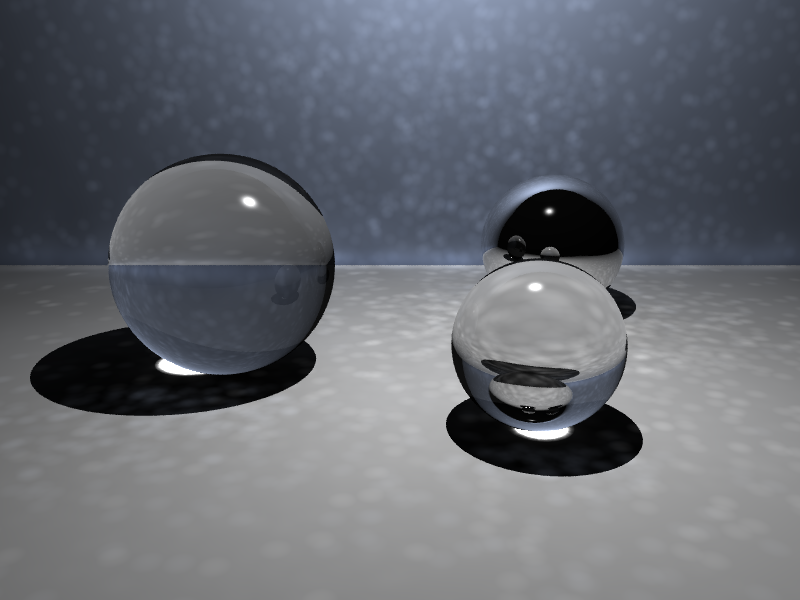
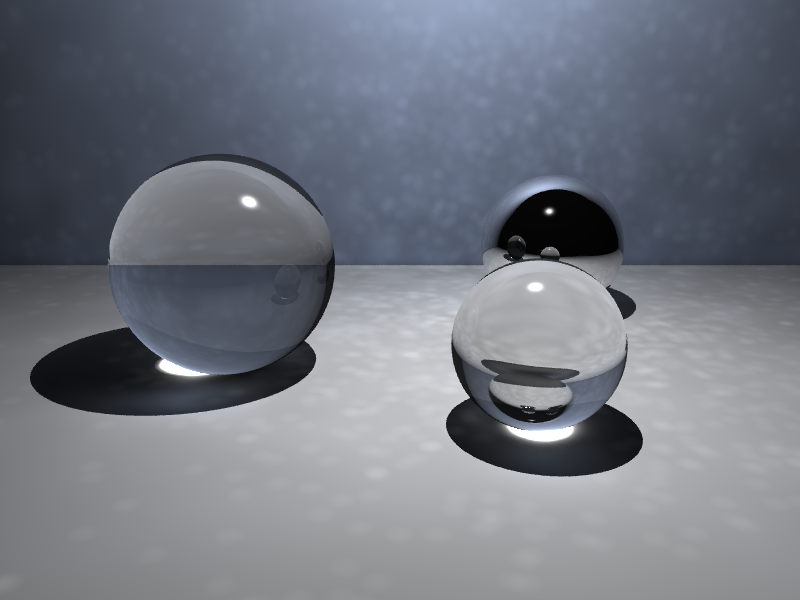
Use physical photon power and Russian roulette
Each light emits light_power times its diffuse color. Photons store their
full power at every diffuse hit and follow one path chosen by Russian
roulette on the material's reflectances, with cosine-weighted diffuse
bounces. Estimates correct for the cone filter, so ESTIMATE_SCALE is gone
and shadow-ray light uses the same power / (4π d²). Tests check direct and
multi-bounce irradiance inside a sphere against closed forms. Scene light
powers are retuned.

diff --git a/crates/raytrace/src/photon.rs b/crates/raytrace/src/photon.rs
@@ -223,11 +223,9 @@ impl Buckets {
 /// nearby perpendicular surfaces don't bleed in.
 const SEARCH_COMPRESSION: f64 = 0.22;
 
-/// Matches light computed with shadow rays to the photon estimates' scale,
-/// which is half the true density twice over: photons are stored at only half
-/// of their surface hits (the other half bounce), and the cone filter's
-/// weights average 1/2 over the disc.
-pub const ESTIMATE_SCALE: f64 = 0.25;
+/// The cone filter's weights (1 - d²/r²) average 1/2 over the disc, so
+/// estimates are scaled back up by this.
+const CONE_NORMALIZATION: f64 = 2.0;
 
 /// Irradiance is precomputed at every this many photons for final gathering.
 const PRECOMPUTE_STRIDE: usize = 4;
@@ -249,21 +247,20 @@ pub struct PhotonMaps {
 }
 
 impl PhotonMaps {
+    /// Emits `photons_per_light` photons uniformly from each light. A light
+    /// emits `light_power` times its diffuse color in total.
     pub fn build(world: &World, settings: &PhotonSettings, seed: u64) -> Self {
-        let per_light = settings.photons_per_light as usize;
+        let per_light = settings.photons_per_light.max(1) as usize;
         let total = per_light * world.lights.len();
-        let power = DVec3::splat(settings.light_power / total.max(1) as f64);
 
         let buckets = (0..total)
             .into_par_iter()
             .fold(Buckets::default, |mut out, i| {
                 let light = &world.lights[i / per_light];
+                let power = light.diffuse * (settings.light_power / per_light as f64);
                 let mut rng = Rng::new(seed.wrapping_mul(0x1000_0000_01B3) ^ i as u64);
-                // The original biased photons downward, but the flip was a
-                // no-op (`dir.sMult(-1)` discarded its result), so emission was
-                // effectively uniform; keep it uniform.
                 let ray = Ray::new(light.position, rng.unit_vector());
-                trace_photon(world, settings, &ray, 0, false, power, Kind::Direct, &mut rng, &mut out);
+                trace_photon(world, settings, ray, power, &mut rng, &mut out);
                 out
             })
             .reduce(Buckets::default, Buckets::merge);
@@ -360,63 +357,149 @@ fn estimate(map: &KdTree, point: DVec3, normal: DVec3, side: Option<DVec3>, radi
             r2
         })
     };
-    sum / (std::f64::consts::PI * r2)
+    sum * (CONE_NORMALIZATION / (std::f64::consts::PI * r2))
 }
 
-#[allow(clippy::too_many_arguments)]
+/// Follows one photon, storing it at every surface with a diffuse part, and
+/// choosing what happens next by Russian roulette: diffuse bounce, mirror
+/// reflection, refraction or absorption, in proportion to the material's
+/// reflectances. A diffuse bounce rescales the power by reflectance over
+/// probability, so the expected power is right while color can shift.
+///
+/// Photons are sorted by path: straight from a light (direct), through glass
+/// or mirrors only (caustic), or after any diffuse bounce (indirect).
 fn trace_photon(
     world: &World,
     settings: &PhotonSettings,
-    ray: &Ray,
-    depth: u32,
-    internal: bool,
-    power: DVec3,
-    kind: Kind,
+    mut ray: Ray,
+    mut power: DVec3,
     rng: &mut Rng,
     out: &mut Buckets,
 ) {
-    let Some(hit) = world.intersect(ray, f64::INFINITY) else { return };
-    let m = &world.materials[hit.material];
-    let pr = m.reflectivity;
-    let pt = m.transmissivity;
-    let pd = 1.0 - pr - pt;
-    let r = rng.next_f64();
+    let mut kind = Kind::Direct;
+    let mut internal = false;
+    for _ in 0..=settings.max_depth {
+        let Some(hit) = world.intersect(&ray, f64::INFINITY) else { return };
+        let m = &world.materials[hit.material];
+        if internal {
+            // Inside glass: carry on to the far surface (or reflect inside).
+            let (refracted, now_internal) = refract(&ray, &hit, true, m.effective_ior());
+            (ray, internal) = (refracted, now_internal);
+            continue;
+        }
 
-    if depth < settings.max_depth {
-        if r < 0.5 {
-            // Diffuse bounce into the hemisphere around the normal. (The
-            // original's hemisphere flip was another discarded `sMult`.)
-            let mut dir = rng.unit_vector();
-            if dir.dot(hit.normal) < 0.0 {
-                dir = -dir;
-            }
-            let bounced = Ray::new(hit.point, dir);
-            trace_photon(world, settings, &bounced, depth + 1, false, power * m.kd * pd, Kind::Indirect, rng, out);
-        }
-        if pt > 0.0 {
-            let (refracted, now_internal) = refract(ray, &hit, internal, m.effective_ior());
-            trace_photon(world, settings, &refracted, depth + 1, now_internal, power * pt, Kind::Caustic, rng, out);
-        }
-        if pr > 0.0 && !internal {
-            let reflected = reflect(ray, &hit);
-            trace_photon(world, settings, &reflected, depth + 1, false, power * pr, Kind::Caustic, rng, out);
-        }
-    }
-
-    if r >= 0.5 {
         let facing = if hit.normal.dot(ray.dir) > 0.0 { -hit.normal } else { hit.normal };
-        let photon = Photon { pos: hit.point, power: power * pd, normal: facing.as_vec3(), axis: 0 };
-        match kind {
-            Kind::Direct => out.direct.push(photon),
-            Kind::Indirect => out.indirect.push(photon),
-            Kind::Caustic => out.caustic.push(photon),
+        let diffuse_part = (1.0 - m.reflectivity - m.transmissivity).max(0.0);
+        if diffuse_part > 0.0 {
+            let photon = Photon { pos: hit.point, power, normal: facing.as_vec3(), axis: 0 };
+            match kind {
+                Kind::Direct => out.direct.push(photon),
+                Kind::Indirect => out.indirect.push(photon),
+                Kind::Caustic => out.caustic.push(photon),
+            }
+        }
+
+        let diffuse = m.kd * diffuse_part;
+        let p_diffuse = diffuse.element_sum() / 3.0;
+        let xi = rng.next_f64();
+        if xi < p_diffuse {
+            power *= diffuse / p_diffuse;
+            ray = Ray::new(hit.point, cosine_direction(facing, rng));
+            kind = Kind::Indirect;
+        } else if xi < p_diffuse + m.reflectivity {
+            ray = reflect(&ray, &hit);
+            kind = after_specular(kind);
+        } else if xi < p_diffuse + m.reflectivity + m.transmissivity {
+            (ray, internal) = refract(&ray, &hit, false, m.effective_ior());
+            kind = after_specular(kind);
+        } else {
+            return;
         }
     }
+}
+
+/// Light that has bounced diffusely stays indirect after glass or mirrors;
+/// only light → specular → diffuse paths are caustics.
+fn after_specular(kind: Kind) -> Kind {
+    if kind == Kind::Indirect { Kind::Indirect } else { Kind::Caustic }
+}
+
+/// A direction in the hemisphere around `n`, with density proportional to
+/// the cosine, as light leaves a Lambertian surface.
+fn cosine_direction(n: DVec3, rng: &mut Rng) -> DVec3 {
+    let (t, b) = n.any_orthonormal_pair();
+    let u = rng.next_f64();
+    let r = u.sqrt();
+    let (sin, cos) = (std::f64::consts::TAU * rng.next_f64()).sin_cos();
+    t * (r * cos) + b * (r * sin) + n * (1.0 - u).sqrt()
 }
 
 #[cfg(test)]
 mod tests {
     use super::*;
+    use crate::geometry::{PointLight, Sphere};
+    use crate::material::Material;
+
+    /// A point light at the center of a sphere of radius `R` whose walls have
+    /// diffuse reflectance `kd`.
+    const R: f64 = 5.0;
+    const LIGHT_POWER: f64 = 100.0;
+
+    fn light_in_sphere(kd: f64) -> (World, PhotonSettings) {
+        let mut world = World::empty();
+        world.materials.push(Material {
+            kd: DVec3::splat(kd),
+            reflectivity: 0.0,
+            transmissivity: 0.0,
+            ..Material::default()
+        });
+        world.spheres.push(Sphere { center: DVec3::ZERO, radius: R, material: 0 });
+        world.lights.push(PointLight { position: DVec3::ZERO, diffuse: DVec3::ONE, specular: DVec3::ONE });
+        let settings = PhotonSettings {
+            enabled: true,
+            photons_per_light: 200_000,
+            max_depth: 60,
+            light_power: LIGHT_POWER,
+            ..PhotonSettings::default()
+        };
+        (world, settings)
+    }
+
+    /// Average estimate over points spread around the sphere.
+    fn mean_estimate(map: &KdTree) -> f64 {
+        let mut rng = Rng::new(3);
+        let n = 40;
+        let total: f64 = (0..n)
+            .map(|_| {
+                let normal = rng.unit_vector();
+                estimate(map, normal * R, normal, None, 1.5, 400).x
+            })
+            .sum();
+        total / n as f64
+    }
+
+    #[test]
+    fn direct_estimate_matches_inverse_square_irradiance() {
+        let (world, settings) = light_in_sphere(0.0);
+        let maps = PhotonMaps::build(&world, &settings, 1);
+        let expected = LIGHT_POWER / (4.0 * std::f64::consts::PI * R * R);
+        let got = mean_estimate(&maps.direct);
+        assert!((got / expected - 1.0).abs() < 0.03, "direct {got} vs {expected}");
+        assert!(maps.indirect.is_empty(), "black walls absorb everything");
+    }
+
+    /// Inside a closed diffuse sphere every bounce spreads evenly, so the
+    /// indirect irradiance is E0 (ρ + ρ² + …) = E0 ρ / (1 - ρ).
+    #[test]
+    fn roulette_conserves_energy_over_bounces() {
+        let rho = 0.5;
+        let (world, settings) = light_in_sphere(rho);
+        let maps = PhotonMaps::build(&world, &settings, 1);
+        let e0 = LIGHT_POWER / (4.0 * std::f64::consts::PI * R * R);
+        let expected = e0 * rho / (1.0 - rho);
+        let got = mean_estimate(&maps.indirect);
+        assert!((got / expected - 1.0).abs() < 0.04, "indirect {got} vs {expected}");
+    }
 
     #[test]
     fn kd_radius_search_matches_brute_force() {

diff --git a/crates/raytrace/src/render.rs b/crates/raytrace/src/render.rs
@@ -10,7 +10,7 @@ use rayon::prelude::*;
 use crate::geometry::{Hit, PointLight, Ray, World};
 use crate::irradiance_cache::{IrradianceCache, Record};
 use crate::optics::{reflect, refract};
-use crate::photon::{ESTIMATE_SCALE, KdTree, PhotonMaps};
+use crate::photon::{KdTree, PhotonMaps};
 use crate::rng::Rng;
 use crate::scene::{DirectLighting, PhotonSettings, RenderSettings, Scene, Window};
 
@@ -398,16 +398,16 @@ impl<'a> Renderer<'a> {
         (self.world.materials[hit.material].ka + diffuse, specular)
     }
 
-    /// Phong lighting from each light's share of the photon power, falling off
-    /// with distance, on the same scale as the photon map estimates. No
-    /// ambient term: the indirect map provides that light.
+    /// Phong lighting from each light's emitted power, falling off with the
+    /// square of the distance: the irradiance its photons would estimate. The
+    /// light's specular color tints highlights the same way. No ambient term:
+    /// the indirect map or final gather provides that light.
     fn direct_from_photon_power(&self, ray: &Ray, hit: &Hit) -> (DVec3, DVec3) {
         let p = self.photon_settings;
-        let per_light = p.light_power / self.world.lights.len().max(1) as f64;
-        let scale = per_light / (4.0 * std::f64::consts::PI) * ESTIMATE_SCALE * p.exposure.direct;
-        self.direct(ray, hit, |_, dist| {
-            let intensity = DVec3::splat(scale / (dist * dist));
-            (intensity, intensity)
+        let scale = p.light_power / (4.0 * std::f64::consts::PI) * p.exposure.direct;
+        self.direct(ray, hit, |light, dist| {
+            let falloff = scale / (dist * dist);
+            (light.diffuse * falloff, light.specular * falloff)
         })
     }
 

diff --git a/crates/raytrace/src/scene.rs b/crates/raytrace/src/scene.rs
@@ -226,7 +226,8 @@ pub struct PhotonSettings {
     pub enabled: bool,
     pub photons_per_light: u32,
     pub max_depth: u32,
-    /// Total power shared by all emitted photons.
+    /// Power each light emits, times its diffuse color. Direct light falls
+    /// off as power / (4π d²).
     pub light_power: f64,
     pub direct_lighting: DirectLighting,
     /// Maximum search radius of each map's estimate.
@@ -252,7 +253,7 @@ impl Default for PhotonSettings {
             enabled: false,
             photons_per_light: 100_000,
             max_depth: 5,
-            light_power: 3300.0,
+            light_power: 1000.0,
             direct_lighting: DirectLighting::default(),
             radius: PhotonTriple { direct: 1.0, indirect: 1.0, caustic: 1.0 },
             exposure: PhotonTriple { direct: 1.0, indirect: 1.0, caustic: 1.0 },

diff --git a/README.md b/README.md
@@ -12,8 +12,9 @@ A ray tracer with photon mapping, written in Rust. It is a port of a
 - Photon mapping after Jensen: direct light from shadow rays, caustics from
   the caustic map, and indirect light from the indirect map or by final
   gathering over precomputed irradiance with an irradiance cache (kd-tree,
-  k-nearest density estimates over a flattened disc). The 2011 direct-map
-  shading is still available.
+  k-nearest density estimates over a flattened disc). Photons carry physical
+  power and follow one path each by Russian roulette on the material's
+  reflectances. The 2011 direct-map shading is still available.
 - Triangle meshes from Wavefront OBJ/MTL, accelerated by a binned-SAH BVH, plus
   analytic spheres
 - N-rooks anti-aliasing; all cores via rayon; deterministic output
@@ -126,7 +127,7 @@ refractions = true
 [photon]
 enabled = false
 photons_per_light = 100000
-light_power = 3300.0
+light_power = 1000.0       # per light, times its diffuse color
 direct_lighting = "rays"   # or "map": read the direct photon map, as in 2011
 radius = { direct = 1.0, indirect = 1.0, caustic = 1.0 }   # max search radius
 gather = { direct = 200, indirect = 200, caustic = 80 }    # nearest photons; 0 = all in radius
@@ -135,6 +136,15 @@ final_gather = 0           # rays per final gather; 0 = read the indirect map
 irradiance_cache = true    # interpolate gathers made at sparse points
 cache_accuracy = 0.25      # smaller = cache points closer together
 ```
+
+Each light emits `light_power` times its diffuse color, split over its
+photons. Direct light from shadow rays falls off as power / (4π d²), and the
+photon estimates measure the same irradiance, so the two add up consistently.
+At each surface a photon is stored if the surface has a diffuse part, then
+Russian roulette picks a diffuse bounce, mirror reflection, refraction or
+absorption in proportion to the material's reflectances. Closed rooms with
+light walls get much more bounce light than open scenes, as they should.
+`exposure` scales each map's contribution on top.
 
 Each map's estimate uses the `gather` nearest photons, out to `radius` at
 most, so it sharpens where photons are dense (caustics) and widens where they
@@ -191,9 +201,12 @@ legacy/scenes         original XML scenes
 
 ## Differences from the 2011 version
 
-Photon-mapped scenes now default to shadow rays for direct light and k-nearest
-gathering. `direct_lighting = "map"` with every `gather` count at 0 reproduces
-the original shading. The port also fixes these bugs:
+Photon mapping now follows Jensen's method: shadow rays for direct light,
+k-nearest estimates, final gathering, physical photon power and Russian
+roulette. The original stored photons at only half their hits and traced
+every branch with split power; `direct_lighting = "map"` still reads the
+direct map like the original, but with the new photon tracing. The port also
+fixes these bugs:
 
 - The photon emission bias and the diffuse-bounce hemisphere flip were no-ops
   (`dir.sMult(-1.0)` discarded its result). Emission is now uniform, which it
